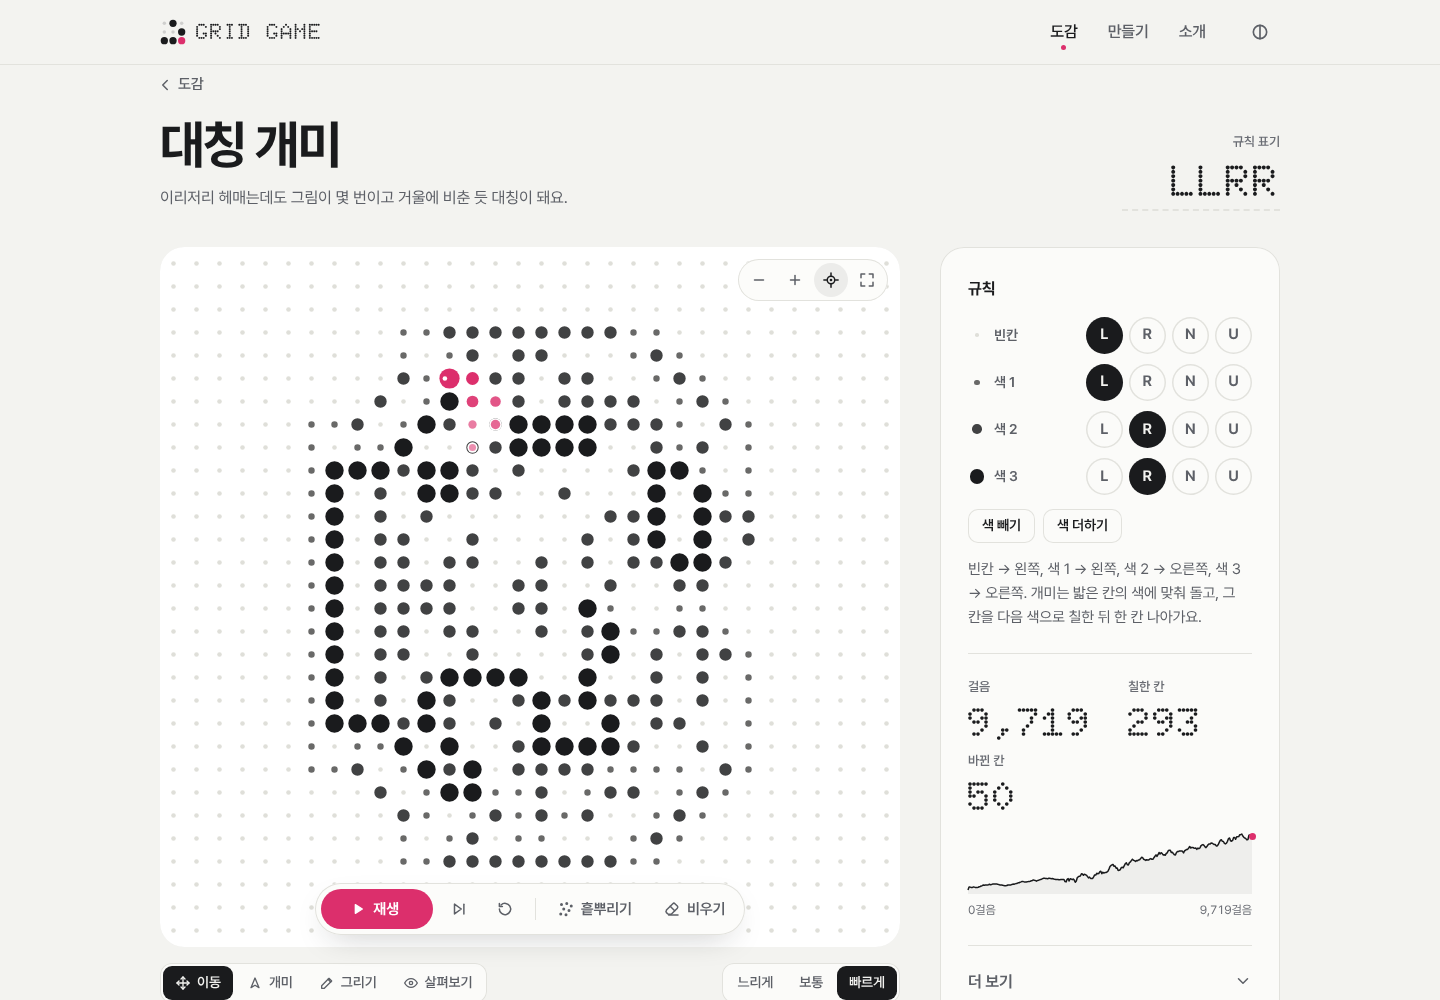
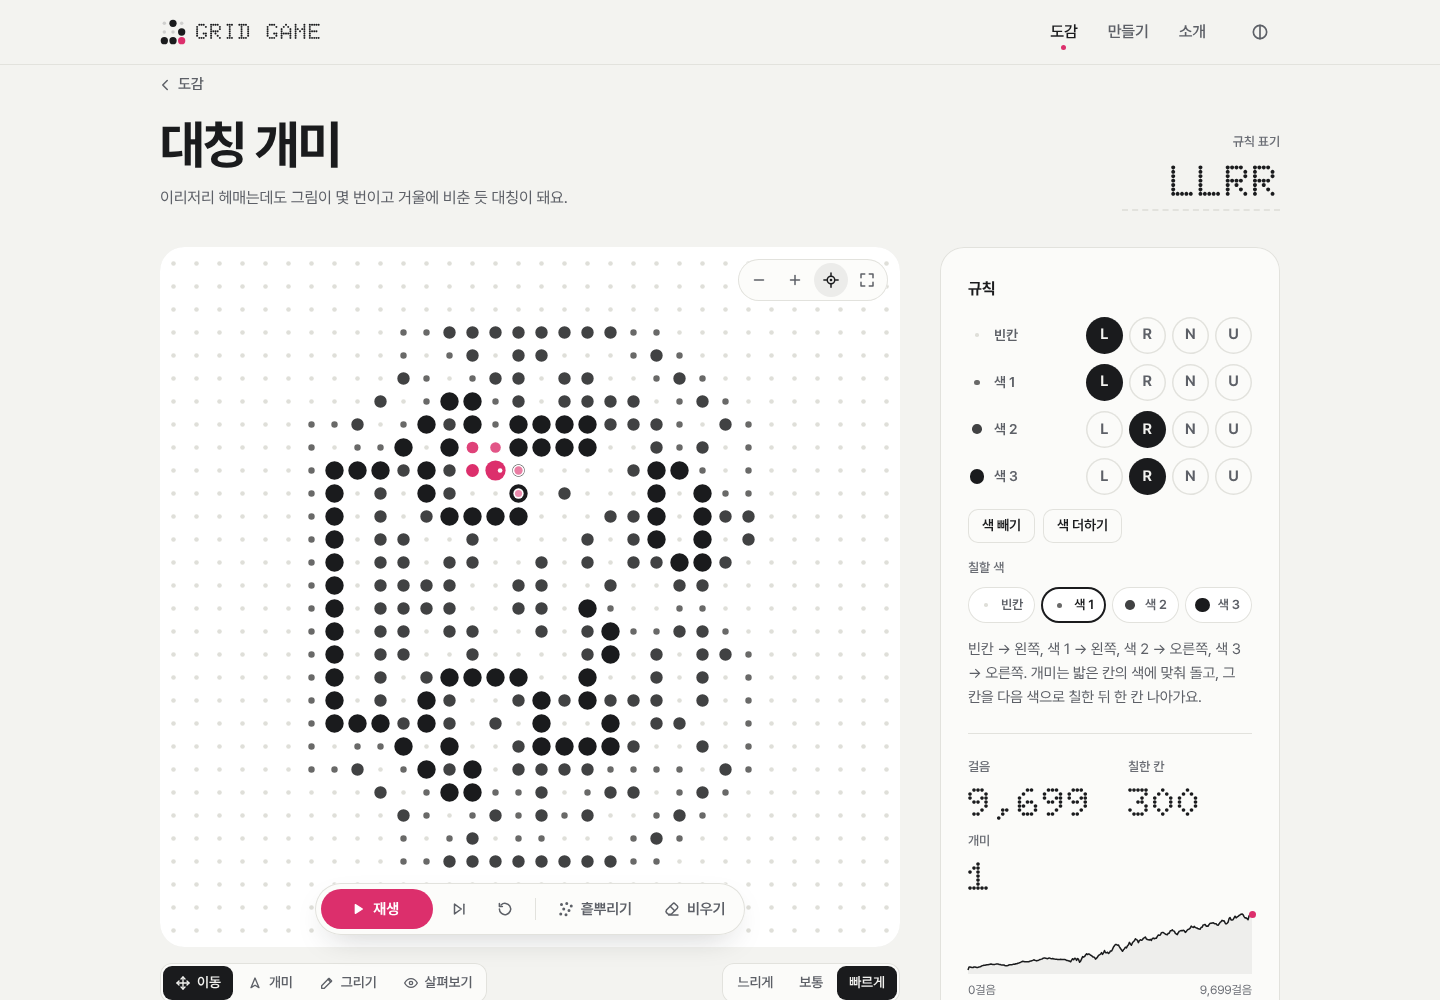
README 캡처: 1차원·와이어월드 더하고 라이프·개미 다시 / Add 1-D and Wireworld screenshots and retake the Life and ant ones
- elementary.png: 규칙 30 을 44줄 넘겨 꼭짓점부터 세모가 다 보이는 때
- wireworld.png: 전자 머리 바로 앞 도선을 살펴보기, 맞은 셋째 줄과 이웃 수 1 에 분홍 테
- rule.png: PC 옆 판의 라이프 편집기가 이름 위·동그란 숫자 점으로 바뀐 모습
- ant.png: 셋째 숫자가 개미 수, 칠할 색 고르기가 생긴 모습
- style.css 주석의 영어 메뉴 이름을 Catalog 로

- elementary.png: rule 30 after 44 rows, with the whole triangle from its apex in view
- wireworld.png: inspecting the wire just ahead of an electron head, with the matched third row and neighbor count 1 ringed in pink
- rule.png: the Life editor in the PC side panel with labels on top and round count dots
- ant.png: the ant count as the third readout and the new paint picker
- Update the English menu name in a style.css comment to Catalog

diff --git a/web/style.css b/web/style.css
@@ -203,7 +203,7 @@ button {
   color: var(--ink-2);
   font-weight: 550;
   line-height: 1.3;
-  white-space: nowrap; /* Field guide 가 두 줄로, Make 가 Mak/e 로 끊기지 않게 */
+  white-space: nowrap; /* 영어 메뉴가 두 줄로, Make 가 Mak/e 로 끊기지 않게 */
 }
 .nav a:hover {
   color: var(--ink);
@@ -2139,7 +2139,7 @@ html.has-full body {
   }
 }
 
-/* 좁은 폰(360px 안팎): 머리 줄 메뉴 셋이 영어(Field guide·Make·About)여도 한 줄에 서게 사이를 줄인다 */
+/* 좁은 폰(360px 안팎): 머리 줄 메뉴 셋이 영어(Catalog·Make·About)여도 한 줄에 서게 사이를 줄인다 */
 @media (max-width: 400px) {
   .top-in {
     gap: 8px;
